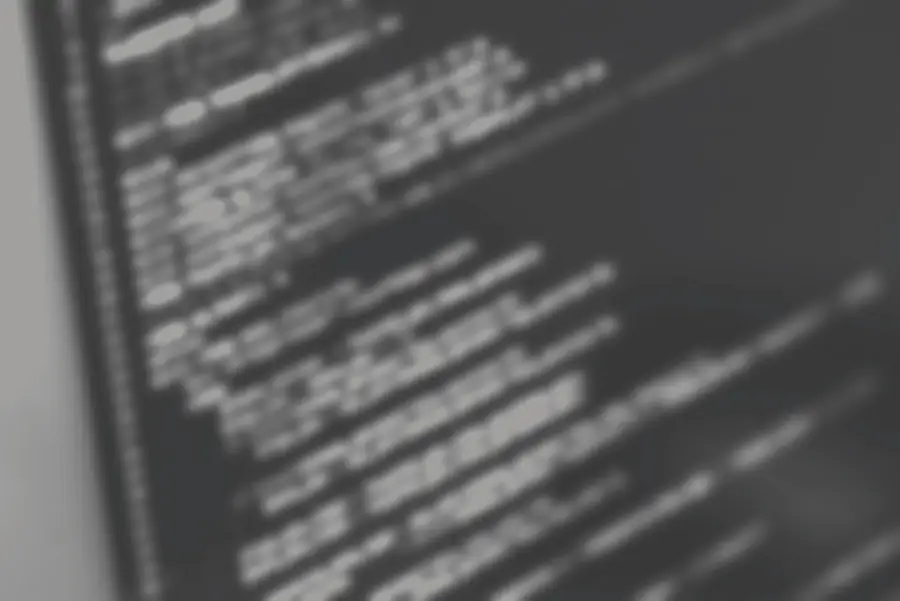
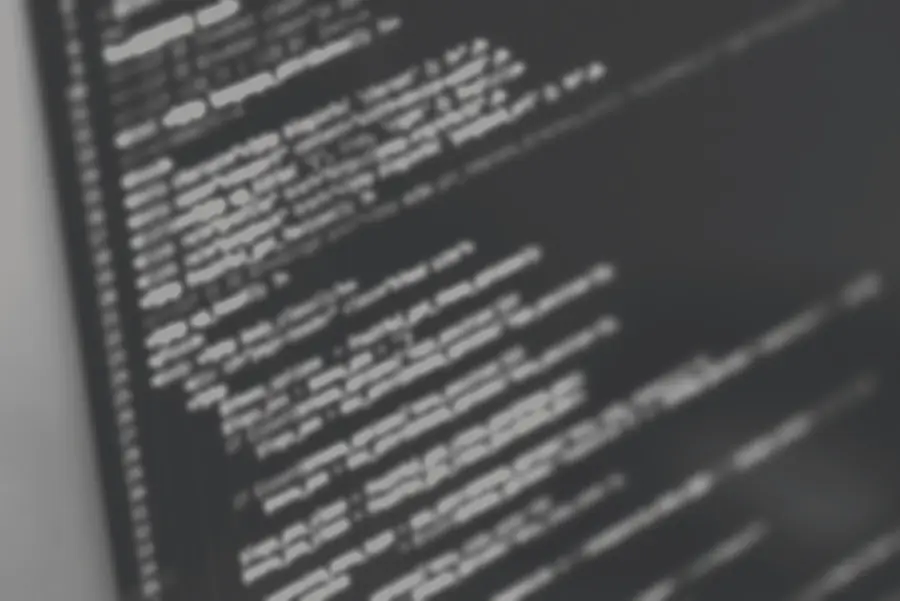
Lower background blur to 7 and strengthen card frames in light theme
- bg-source/make-bg.py: BLUR_1920 12 -> 7, images regenerated (14-36 KB).
- Light theme: darker card colour (#e0dfdb), stronger border and a soft
  shadow on work and contact cards via --card-border / --card-shadow.
  Dark theme cards are unchanged.

diff --git a/src/style.css b/src/style.css
@@ -18,6 +18,8 @@
   --dim-rgb: 162, 165, 171;
   --ink-3: #0f1012;
   --solid-hover: #ffffff;
+  --card-border: var(--line); /* frame of the work / contact cards */
+  --card-shadow: none;
   --logo-filter: none; /* the logo file is white; the light theme inverts it */
   --bg-overlay: 0.7; /* how strongly --bg-rgb covers the background photo (0 = photo only, 1 = none) */
   color-scheme: dark;
@@ -29,7 +31,7 @@
    <html data-theme="dark"> keeps the dark theme whatever the system says. */
 :root[data-theme="light"] {
   --ink: #f2f1ee;
-  --ink-2: #e9e8e4;
+  --ink-2: #e0dfdb;
   --ink-3: #deddd9;
   --cream: #0b0c0e;
   --cream-dim: #4a4d53;
@@ -41,12 +43,14 @@
   --dim-rgb: 74, 77, 83;
   --solid-hover: #000000;
   --logo-filter: invert(1);
+  --card-border: rgba(11, 12, 14, 0.24);
+  --card-shadow: 0 1px 2px rgba(11, 12, 14, 0.08), 0 10px 28px rgba(11, 12, 14, 0.1);
   color-scheme: light;
 }
 @media (prefers-color-scheme: light) {
   :root:not([data-theme="dark"]) {
     --ink: #f2f1ee;
-    --ink-2: #e9e8e4;
+    --ink-2: #e0dfdb;
     --ink-3: #deddd9;
     --cream: #0b0c0e;
     --cream-dim: #4a4d53;
@@ -58,6 +62,8 @@
     --dim-rgb: 74, 77, 83;
     --solid-hover: #000000;
     --logo-filter: invert(1);
+    --card-border: rgba(11, 12, 14, 0.24);
+    --card-shadow: 0 1px 2px rgba(11, 12, 14, 0.08), 0 10px 28px rgba(11, 12, 14, 0.1);
     color-scheme: light;
   }
 }
@@ -478,7 +484,8 @@ section[id] { scroll-margin-top: 3rem; }
   padding: 0.9rem 0.9rem 1.5rem;
   border-radius: 14px;
   background: var(--ink-2);
-  border: 1px solid var(--line);
+  border: 1px solid var(--card-border);
+  box-shadow: var(--card-shadow);
   overflow: hidden;
   transition: border-color 0.4s var(--ease);
 }
@@ -735,7 +742,8 @@ section[id] { scroll-margin-top: 3rem; }
   padding: 1.75rem;
   border-radius: 20px;
   background: var(--ink-2);
-  border: 1px solid var(--line);
+  border: 1px solid var(--card-border);
+  box-shadow: var(--card-shadow);
 }
 
 .contact__row {
@@ -810,7 +818,8 @@ section[id] { scroll-margin-top: 3rem; }
   padding: 1.75rem;
   border-radius: 20px;
   background: var(--ink-2);
-  border: 1px solid var(--line);
+  border: 1px solid var(--card-border);
+  box-shadow: var(--card-shadow);
 }
 .form__row {
   display: grid;

diff --git a/bg-source/make-bg.py b/bg-source/make-bg.py
@@ -16,7 +16,7 @@ SRC = ROOT / "bg-source" / "bg-code-original.jpg"
 OUT = ROOT / "src" / "assets" / "bg"
 
 # ---- knobs ---------------------------------------------------------------
-BLUR_1920 = 12     # gaussian radius in px at 1920 wide (the 900 wide version is scaled to look the same)
+BLUR_1920 = 7     # gaussian radius in px at 1920 wide (the 900 wide version is scaled to look the same)
 GAIN = 1.0         # >1 brightens the glow, <1 dims it (before the CSS overlay is applied)
 QUALITY = 70       # WebP quality
 GLOW_PERCENTILE = 96   # lower = code lines reach full brightness sooner (more contrast), the brightest spots just clip
